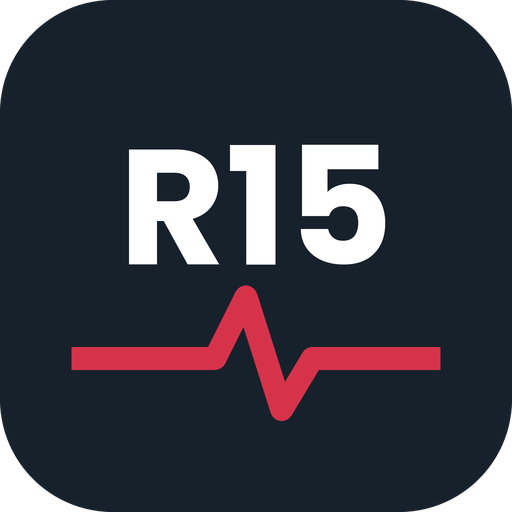
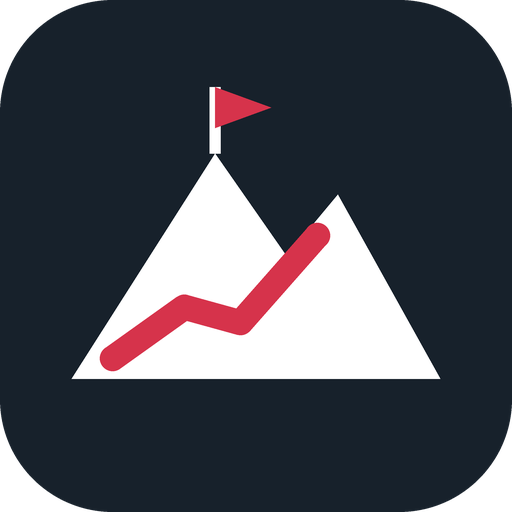
added daily log

Changed region(s): [[0.125, 0.1562, 0.875, 0.8438]]

diff --git a/index.html b/index.html
@@ -9,9 +9,9 @@
 <link rel="apple-touch-icon" href="/icons/apple-touch-icon.png">
 <meta name="apple-mobile-web-app-capable" content="yes">
 <meta name="mobile-web-app-capable" content="yes">
-<meta name="apple-mobile-web-app-title" content="Reboot 15">
+<meta name="apple-mobile-web-app-title" content="Ascent">
 <style>:root{color-scheme:light;padding-top:env(safe-area-inset-top,0px);padding-bottom:env(safe-area-inset-bottom,0px)}body{margin:0;font:14px system-ui,sans-serif}img{max-width:100%}[hidden]{display:none!important}</style>
-<title>Reboot 15</title>
+<title>Ascent</title>
 <link rel="preconnect" href="https://fonts.googleapis.com">
 <link rel="stylesheet" href="https://fonts.googleapis.com/css2?family=Barlow+Condensed:wght@500;600;700&family=Atkinson+Hyperlegible:wght@400;700&display=swap">
 <style id="css">
@@ -85,6 +85,27 @@ h3{font-size:1.25rem;text-transform:uppercase;letter-spacing:.06em;color:var(--m
 .sync label{color:var(--muted)}
 .sync input{font:inherit;padding:6px 10px;border:1px solid var(--line);border-radius:8px;background:var(--surface);color:var(--ink);min-width:0;flex:1 1 160px}
 .sync button{font:inherit;padding:6px 14px;border-radius:8px;border:1px solid var(--done);background:var(--done);color:#fff;cursor:pointer}
+.mylog{background:var(--bg);border-radius:12px;padding:12px;gap:10px}
+.steps{display:grid;grid-template-columns:auto 110px 1fr auto;gap:10px;align-items:center}
+.steps label,.lbl{font-size:.9rem;color:var(--muted)}
+.mylog input[type=number],.mylog textarea{font:inherit;color:var(--ink);background:var(--surface);border:1px solid var(--line);border-radius:8px;padding:6px 10px;min-width:0;width:100%;box-sizing:border-box}
+.mylog textarea{resize:vertical}
+.sbar{height:8px;border-radius:4px;background:var(--line);overflow:hidden;min-width:40px}
+.sbar i{display:block;height:100%;background:var(--climb)}
+.sgoal{font-size:.8rem;color:var(--muted);font-variant-numeric:tabular-nums;white-space:nowrap}
+.done-own{display:flex;gap:10px;align-items:center;font-weight:700;cursor:pointer}
+.done-own input{width:24px;height:24px;accent-color:var(--done)}
+.chip .st{font-size:.68rem;color:var(--climb);font-variant-numeric:tabular-nums}
+.chip .st.hit{color:var(--done);font-weight:700}
+@media (max-width:420px){.steps{grid-template-columns:auto 1fr}.sbar{grid-column:1/-1}.sgoal{grid-column:1/-1}}
+.sline{display:flex;flex-wrap:wrap;justify-content:space-between;gap:8px;align-items:center;font-size:.85rem;color:var(--muted)}
+.sline b{color:var(--ink);font-variant-numeric:tabular-nums}
+.goalset{display:flex;gap:6px;align-items:center}
+.goalset input{width:90px!important}
+.food{display:grid;gap:6px}
+.food h4{margin:4px 0 0;font-family:var(--display);text-transform:uppercase;letter-spacing:.06em;font-size:1rem;color:var(--muted)}
+.meal{display:grid;grid-template-columns:84px 1fr;gap:8px;align-items:center;font-size:.9rem;color:var(--muted)}
+.mylog input[type=text]{font:inherit;color:var(--ink);background:var(--surface);border:1px solid var(--line);border-radius:8px;padding:6px 10px;min-width:0;width:100%;box-sizing:border-box}
 .lb[hidden]{display:none}
 .lb figure{margin:0;display:grid;gap:8px;max-width:min(720px,100%)}
 .lb img{width:100%;border-radius:10px;background:#fff}
@@ -122,8 +143,15 @@ th{font-family:var(--display);text-transform:uppercase;letter-spacing:.06em;font
 (function(){
 const STATE = JSON.parse(document.getElementById('state').textContent || '{"done":{}}');
 STATE.done = STATE.done || {};
-try{const saved=JSON.parse(localStorage.getItem('reboot15-done')||'null');if(saved&&typeof saved==='object')STATE.done=saved;}catch(e){}
-const saveLocal=()=>{try{localStorage.setItem('reboot15-done',JSON.stringify(STATE.done))}catch(e){}};
+STATE.log=STATE.log||{};STATE.settings=STATE.settings||{};
+try{const saved=JSON.parse(localStorage.getItem('reboot15-done')||'null');if(saved&&typeof saved==='object')STATE.done=saved;const lg=JSON.parse(localStorage.getItem('reboot15-log')||'null');if(lg&&typeof lg==='object')STATE.log=lg;const st=JSON.parse(localStorage.getItem('reboot15-settings')||'null');if(st&&typeof st==='object')STATE.settings=st;}catch(e){}
+const saveLocal=()=>{try{localStorage.setItem('reboot15-done',JSON.stringify(STATE.done));localStorage.setItem('reboot15-log',JSON.stringify(STATE.log));localStorage.setItem('reboot15-settings',JSON.stringify(STATE.settings))}catch(e){}};
+const LOG=n=>STATE.log[n]||(STATE.log[n]={});
+const GOAL=()=>STATE.settings.stepGoal||8000;
+const goalTxt=v=>v>=GOAL()?'Goal reached':kfmt(Math.max(0,GOAL()-v))+' to your '+kfmt(GOAL())+' goal';
+function avg7(n){const xs=[];for(let i=n;i>n-7&&i>=2;i--){const s=STATE.log[i]&&STATE.log[i].steps;if(s)xs.push(s);}return xs.length?{v:Math.round(xs.reduce((a,b)=>a+b,0)/xs.length),n:xs.length}:null;}
+const avgTxt=n=>{const a=avg7(n);return a?`7-day average: <b>${kfmt(a.v)}</b> over ${a.n} logged day${a.n>1?'s':''}`:'7-day average appears once you log steps'};
+const MEALS=[['b','Breakfast'],['l','Lunch'],['s','Snacks'],['d','Dinner']];
 const SYNC={pass:null,status:'',timer:null,busy:false};
 try{SYNC.pass=localStorage.getItem('reboot15-pass')}catch(e){}
 function setStatus(t){SYNC.status=t;const el=document.getElementById('save');if(el)el.textContent=t;}
@@ -135,14 +163,14 @@ async function api(method,body){
 }
 async function pull(){
   if(!SYNC.pass||SYNC.busy||SYNC.timer)return;
-  try{setStatus('Syncing');const j=await api('GET');STATE.done=j.done||{};saveLocal();render();setStatus('Synced');}
+  try{setStatus('Syncing');const j=await api('GET');STATE.done=j.done||{};STATE.log=j.log||{};STATE.settings=j.settings||STATE.settings||{};saveLocal();if(!document.activeElement||!document.activeElement.closest('.mylog'))render();setStatus('Synced');}
   catch(e){if(e.status===401){SYNC.pass=null;try{localStorage.removeItem('reboot15-pass')}catch(_){}render();setStatus('Wrong passphrase, enter it again');}else setStatus('Offline: ticks kept on this device, will sync later');}
 }
 function push(){
   if(!SYNC.pass)return;
   setStatus('Saving');clearTimeout(SYNC.timer);
   SYNC.timer=setTimeout(async()=>{SYNC.timer=null;SYNC.busy=true;
-    try{await api('PUT',{done:STATE.done});setStatus('Synced');}
+    try{await api('PUT',{done:STATE.done,log:STATE.log,settings:STATE.settings});setStatus('Synced');}
     catch(e){setStatus(e.status===401?'Wrong passphrase, enter it again':'Could not sync, will retry when you reopen the page');}
     SYNC.busy=false;},1200);
 }
@@ -287,7 +315,9 @@ function dayItems(d){
   return ids;
 }
 function coreItems(d){return dayItems(d).filter(id=>d.pm&&d.pm.core||!id.includes('-p'))}
-function dayDone(d){return coreItems(d).every(id=>STATE.done[id])}
+function planDone(d){return coreItems(d).every(id=>STATE.done[id])}
+function dayDone(d){return planDone(d)||!!(STATE.log[d.n]&&STATE.log[d.n].complete)}
+const kfmt=n=>n>=1000?(Math.round(n/100)/10).toString().replace(/\.0$/,'')+'k':String(n);
 function allIds(){return DAYS.flatMap(coreItems)}
 
 let sel = Number(ls(true)) || (DAYS.find(d=>!dayDone(d))||DAYS[0]).n;
@@ -308,16 +338,25 @@ function render(){
   const html=`<div class="wrap">
   <header style="display:grid;gap:10px">
     <div class="eyebrow">California Gym JDM · 6 Oct to 4 Nov 2026</div>
-    <h1>Reboot 15</h1>
-    <p class="lede">Back to structured training, built to reshape: lower body twice a week, upper body for posture only, fat loss for the waist. Day 1 is done. Phase 1 is days 1 to 15, phase 2 runs to 4 November, the day before Paris. Gym at 9:00 with more stair climber each week, the Chloe Ting 2024 Weight Loss Challenge at home every afternoon, its rest days on Sunday and Monday.</p>
+    <h1>Ascent</h1>
+    <p class="lede">Your daily climb. Training built to reshape: lower body twice a week, upper body for posture only, fat loss for the waist. Day 1 is done. Phase 1 is days 1 to 15, phase 2 runs to 4 November, the day before Paris. Gym at 9:00 with more stair climber each week, the Chloe Ting 2024 Weight Loss Challenge at home every afternoon, its rest days on Sunday and Monday.</p>
     <div class="meter"><div class="bar" role="progressbar" aria-valuenow="${pct}" aria-valuemin="0" aria-valuemax="100"><i style="width:${pct}%"></i></div><b>${daysDone + 1}/${DAYS.length + 1} days</b>${(()=>{const t=new Date(2026,10,7)-new Date(new Date().toDateString());const n=Math.round(t/864e5);return n>0?`<span class="tag time">Wedding in ${n} days</span>`:""})()}<span class="save" id="save">${esc(SYNC.status)}</span></div>
     ${SYNC.pass?'':`<form class="sync" id="syncform"><label for="syncpass">Sync passphrase</label><input id="syncpass" type="password" autocomplete="current-password" placeholder="Same on every device"><button type="submit">Connect</button></form>`}
   </header>
-  <nav class="strip" aria-label="Days">${DAYS.map(x=>(x.n===16?'<span class="sep">Phase 2</span>':x.n===2?'<span class="sep">Phase 1</span>':'')+`<button class="chip${dayDone(x)?' full':''}" data-day="${x.n}" aria-pressed="${x.n===sel}"><span class="k">${esc(x.kind)}</span><span class="n">${x.n}</span><span class="d">${esc(x.date.replace(/ Oct$/,''))}</span></button>`).join('')}</nav>
+  ${stripHTML()}
   <section class="card" aria-live="polite">
     <div class="dayhead"><div><div class="eyebrow">${d.n>15?'Phase 2':'Phase 1'} · Day ${d.n} · ${esc(d.date)}</div><h2>${esc(d.kind==='Rest'?'Full rest':d.kind==='Recovery'?'Active recovery':d.kind==='Class'?'Class + cardio':d.kind==='Home'?'Home session':d.kind==='Gym + home'?'Gym + home':'Gym session')}</h2></div>
       <div class="tags">${d.time!=='none'?`<span class="tag time">Go at ${esc(d.time)}</span>`:''}${d.tags.map(t=>`<span class="tag${/limber/.test(t)?' climb':''}">${esc(t)}</span>`).join('')}</div></div>
     ${d.note?`<p class="note">${esc(d.note)}</p>`:''}
+    ${(()=>{const L=STATE.log[d.n]||{};const st=L.steps||0;const pct=Math.min(100,Math.round(st/GOAL()*100));return `<div class="block mylog"><h3>My day</h3>
+      <div class="steps"><label for="steps-${d.n}">Steps</label><input id="steps-${d.n}" data-log="steps" type="number" inputmode="numeric" min="0" max="100000" step="100" placeholder="0" value="${st||''}"><div class="sbar" aria-hidden="true"><i style="width:${pct}%"></i></div><span class="sgoal" id="sgoal-${d.n}">${goalTxt(st)}</span></div>
+      <div class="sline"><span id="avg-${d.n}">${avgTxt(d.n)}</span><label class="goalset">Daily goal <input id="goal" data-log="goal" type="number" inputmode="numeric" min="1000" max="40000" step="500" value="${GOAL()}"></label></div>
+      <div class="food"><h4>What I ate</h4>${MEALS.map(([k,lab])=>`<label class="meal"><span>${lab}</span><input id="food-${k}-${d.n}" data-log="food" data-meal="${k}" type="text" maxlength="300" placeholder="What and how much" value="${esc((L.food&&L.food[k])||'')}"></label>`).join('')}</div>
+      <label class="lbl" for="note-${d.n}">What I did</label>
+      <textarea id="note-${d.n}" data-log="note" rows="3" maxlength="1000" placeholder="For example: 10k steps and the treadmill only, skipped Chloe Ting">${esc(L.note||'')}</textarea>
+      <label class="done-own"><input type="checkbox" id="complete-${d.n}" data-log="complete" ${L.complete?'checked':''}><span>Count this day as complete</span></label>
+      ${planDone(d)?'<p class="foot">Full plan done today.</p>':(L.complete?'<p class="foot">Counted as complete, your way.</p>':'')}
+    </div>`})()}
     ${d.noWarm?'':(()=>{const leg=d.tags.some(t=>/^Legs/.test(t));return `<div class="block"><h3>Before · ${leg?'hip mobility warm-up':'dynamic warm-up'}</h3><ul class="list">${row('d'+d.n+'-warm',leg?'Hip mobility warm-up, 6 to 7 min (Jessica Bickling)':'Dynamic warm-up, 5 to 6 min','',false,leg?'Loosens hips tight from sitting so the glutes work better. 20 to 30 s or a few reps each.':'Keep moving, no holding positions')}</ul>${moves(leg?MOB:WARM)}</div>`})()}
     <div class="block"><h3>Main work</h3><ul class="list">${d.main.map((m,i)=>row('d'+d.n+'-m'+i,m[0],m[1],m[2],m[3])).join('')}</ul></div>
     ${d.noCool?'':`<div class="block"><h3>After · static stretching</h3><ul class="list">${row('d'+d.n+'-cool','Static stretches, 30 s each side','',false,'Mild tension, slow breathing, no bouncing')}</ul>${moves(COOL)}</div>`}
@@ -387,8 +426,25 @@ document.addEventListener('click',e=>{
   if(c){sel=Number(c.dataset.day);ls(false,String(sel));render();return}
 });
 document.addEventListener('keydown',e=>{if(e.key==='Escape'){const lb=document.getElementById('lb');if(lb)lb.hidden=true}});
+function stripHTML(){return `<nav class="strip" aria-label="Days">${DAYS.map(x=>(x.n===16?'<span class="sep">Phase 2</span>':x.n===2?'<span class="sep">Phase 1</span>':'')+`<button class="chip${dayDone(x)?' full':''}" data-day="${x.n}" aria-pressed="${x.n===sel}"><span class="k">${esc(x.kind)}</span><span class="n">${x.n}</span><span class="d">${esc(x.date.replace(/ Oct$/,''))}</span>${STATE.log[x.n]&&STATE.log[x.n].steps?`<span class="st${STATE.log[x.n].steps>=GOAL()?' hit':''}">${kfmt(STATE.log[x.n].steps)}</span>`:''}</button>`).join('')}</nav>`;}
+function refreshChips(){const n=document.querySelector('.strip');if(n){const x=n.scrollLeft;n.outerHTML=stripHTML();const m=document.querySelector('.strip');if(m)m.scrollLeft=x;}return;document.querySelectorAll('.chip').forEach(c=>{const d=DAYS.find(x=>x.n===Number(c.dataset.day));c.classList.toggle('full',dayDone(d));});}
+let logTimer=null;
+document.addEventListener('input',e=>{
+  const t=e.target,k=t.dataset&&t.dataset.log;if(!k||k==='complete')return;
+  const L=LOG(sel);
+  if(k==='steps'){const v=Math.max(0,Math.min(100000,parseInt(t.value,10)||0));if(v)L.steps=v;else delete L.steps;
+    const bar=t.parentNode.querySelector('.sbar i');if(bar)bar.style.width=Math.min(100,Math.round(v/GOAL()*100))+'%';
+    const g=document.getElementById('sgoal-'+sel);if(g)g.textContent=goalTxt(v);
+    const a=document.getElementById('avg-'+sel);if(a)a.innerHTML=avgTxt(sel);}
+  if(k==='goal'){const v=parseInt(t.value,10);if(!(v>=1000&&v<=40000))return;STATE.settings.stepGoal=v;const st=(STATE.log[sel]&&STATE.log[sel].steps)||0;const g=document.getElementById('sgoal-'+sel);if(g)g.textContent=goalTxt(st);const bar=document.querySelector('.sbar i');if(bar)bar.style.width=Math.min(100,Math.round(st/v*100))+'%';}
+  if(k==='food'){const m=t.dataset.meal,v=t.value.slice(0,300);L.food=L.food||{};if(v.trim())L.food[m]=v;else delete L.food[m];if(!Object.keys(L.food).length)delete L.food;}
+  if(k==='note'){const v=t.value.slice(0,1000);if(v.trim())L.note=v;else delete L.note;}
+  refreshChips();saveLocal();clearTimeout(logTimer);logTimer=setTimeout(push,600);
+});
 document.addEventListener('change',e=>{
   const t=e.target;
+  if(t.dataset&&t.dataset.log==='complete'){const L=LOG(sel);if(t.checked)L.complete=true;else delete L.complete;render();saveLocal();push();return;}
+  if(t.dataset&&t.dataset.log)return;
   if(t.type!=='checkbox')return;
   if(t.checked)STATE.done[t.id]=true;else delete STATE.done[t.id];
   render(); saveLocal(); push();

diff --git a/api/state.js b/api/state.js
@@ -1,6 +1,6 @@
-// Reboot 15 sync API: stores your ticks in Upstash Redis.
+// Ascent sync API: stores your ticks, daily log and settings in Upstash Redis.
 // GET  /api/state  -> { done: {...}, updatedAt }
-// PUT  /api/state  -> body { done: {...} }
+// PUT  /api/state  -> body { done: {...}, log: { "2": { steps, note, complete, food } }, settings: { stepGoal } }
 // Both need the header  x-passphrase: <APP_PASSPHRASE>
 import { timingSafeEqual } from "node:crypto";
 
@@ -35,7 +35,7 @@ export default async function handler(req, res) {
   try {
     if (req.method === "GET") {
       const raw = await redis(["GET", KEY]);
-      return res.status(200).json(raw ? JSON.parse(raw) : { done: {}, updatedAt: null });
+      return res.status(200).json(raw ? { log: {}, settings: {}, ...JSON.parse(raw) } : { done: {}, log: {}, settings: {}, updatedAt: null });
     }
     if (req.method === "PUT") {
       let body = req.body;
@@ -44,7 +44,26 @@ export default async function handler(req, res) {
       if (!done) return res.status(400).json({ error: "Body must be { done: {...} }." });
       const clean = {};
       for (const [k, v] of Object.entries(done)) if (/^d\d{1,2}-[a-z]+\d*$/.test(k) && v === true) clean[k] = true;
-      const value = { done: clean, updatedAt: new Date().toISOString() };
+      const log = {};
+      const rawLog = body.log && typeof body.log === "object" && !Array.isArray(body.log) ? body.log : {};
+      for (const [k, v] of Object.entries(rawLog)) {
+        if (!/^\d{1,2}$/.test(k) || !v || typeof v !== "object") continue;
+        const e = {};
+        const steps = Number(v.steps);
+        if (Number.isInteger(steps) && steps > 0 && steps <= 100000) e.steps = steps;
+        if (typeof v.note === "string" && v.note.trim()) e.note = v.note.slice(0, 1000);
+        if (v.complete === true) e.complete = true;
+        if (v.food && typeof v.food === "object") {
+          const f = {};
+          for (const m of ["b", "l", "s", "d"]) if (typeof v.food[m] === "string" && v.food[m].trim()) f[m] = v.food[m].slice(0, 300);
+          if (Object.keys(f).length) e.food = f;
+        }
+        if (Object.keys(e).length) log[k] = e;
+      }
+      const settings = {};
+      const g = Number(body.settings && body.settings.stepGoal);
+      if (Number.isInteger(g) && g >= 1000 && g <= 40000) settings.stepGoal = g;
+      const value = { done: clean, log, settings, updatedAt: new Date().toISOString() };
       await redis(["SET", KEY, JSON.stringify(value)]);
       return res.status(200).json(value);
     }

diff --git a/sw.js b/sw.js
@@ -1,5 +1,5 @@
-// Reboot 15 service worker: the app opens offline, updates arrive when online.
-const CACHE = "reboot15-v1";
+// Ascent service worker: the app opens offline, updates arrive when online.
+const CACHE = "ascent-v3";
 const SHELL = ["/", "/manifest.webmanifest", "/icons/icon-192.png", "/icons/icon-512.png"];
 
 self.addEventListener("install", (e) => {

diff --git a/README.md b/README.md
@@ -1,4 +1,4 @@
-# Reboot 15
+# Ascent
 
 My 31-day training plan (6 Oct to 4 Nov 2026), with ticks synced across devices.
 
@@ -12,7 +12,7 @@ My 31-day training plan (6 Oct to 4 Nov 2026), with ticks synced across devices.
 
 ## Deploy (about 10 minutes)
 
-1. Push this folder to a new GitHub repo, for example `reboot15`.
+1. Push this folder to a new GitHub repo, for example `ascent`.
 2. On vercel.com: Add New → Project → import the repo. No build settings needed. Deploy.
 3. In the project: Storage → Create Database → Upstash for Redis (free plan) → connect it to this project.
    This adds `KV_REST_API_URL` and `KV_REST_API_TOKEN` automatically.
@@ -29,6 +29,12 @@ curl -H "x-passphrase: YOUR_PASSPHRASE" https://YOUR-PROJECT.vercel.app/api/stat
 
 You should get `{"done":{...},"updatedAt":"..."}`. A wrong passphrase returns 401.
 
+## My day
+
+Each day has a **My day** box: steps (with a bar to 10,000), a free note of what you actually did,
+and **Count this day as complete**. A day turns green when the full plan is ticked or when you
+count it as complete yourself. Steps show on the day strip.
+
 ## Install it as an app
 
 - Android (Chrome or Samsung Internet): open the site, menu → **Install app** (or Add to Home screen).
@@ -37,7 +43,7 @@ You should get `{"done":{...},"updatedAt":"..."}`. A wrong passphrase returns 40
 
 The app opens full screen, works offline, and syncs your ticks once you're back online.
 After you push a new `index.html`, close and reopen the app once to get the update.
-If you change `sw.js`, bump `CACHE` (for example `reboot15-v2`).
+If you change `sw.js`, bump `CACHE` (for example `ascent-v4`).
 
 ## How sync behaves
 
